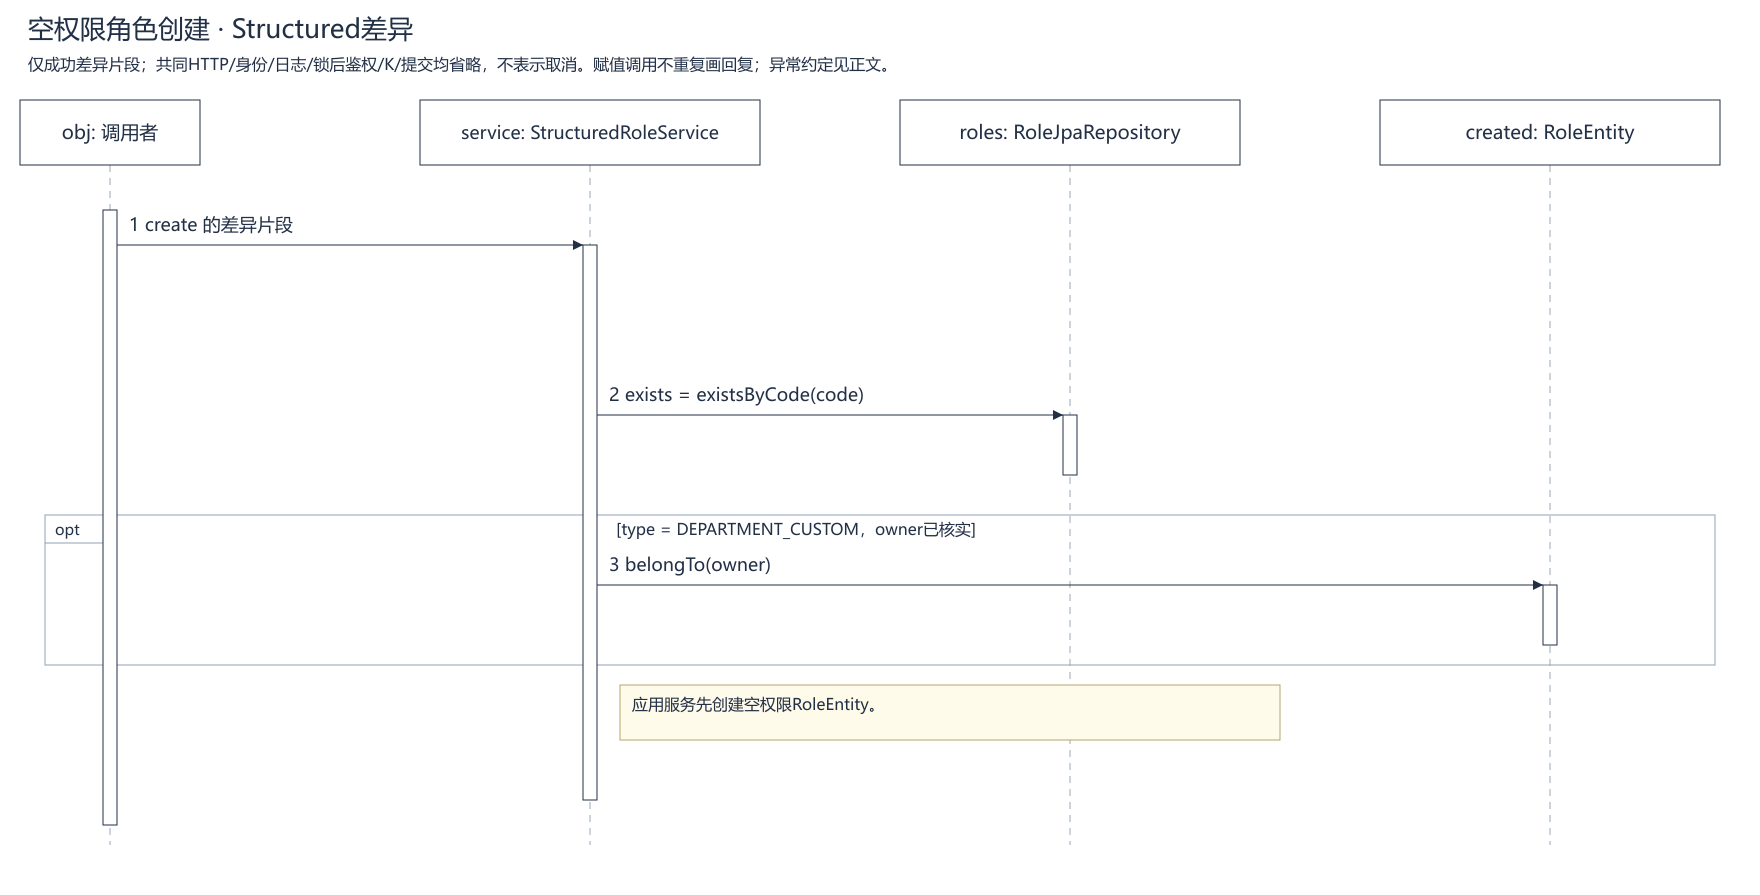
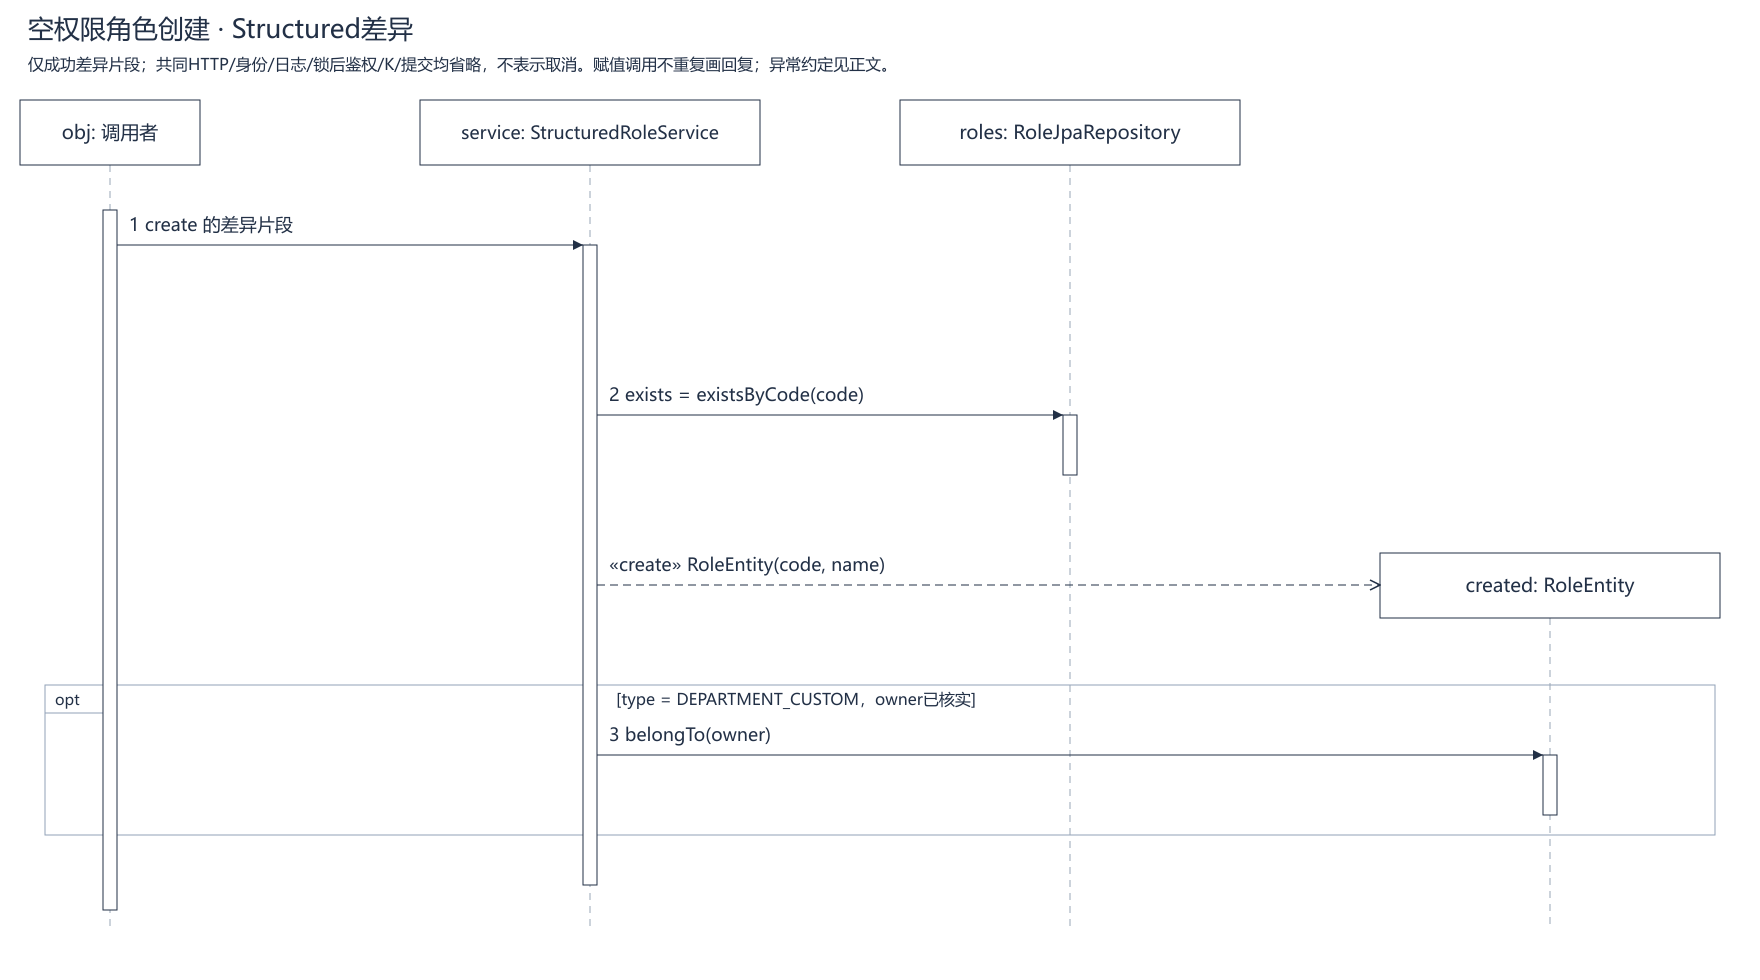
docs: clarify object creation and authorization in UML

diff --git a/docs/design/README.md b/docs/design/README.md
@@ -14,6 +14,6 @@ node scripts/build-ddd-design.mjs
 node scripts/build-structured-design.mjs
 ```
 
-类图按项目指定的`uml-class-sequence-diagrams`绘制，以Service为中心，使用字段名标识关联，区分依赖与接口实现。顺序图校验接收方方法、对象和静态方法生命线、执行条定位及循环边界。包图用UML文件夹符号和依赖箭头，[Chen ER](../database-design.md#1-chen-er概念模型)使用矩形、菱形、椭圆和基数。生成结果见[主清单](ddd-generated-manifest.json)和[structured清单](structured-generated-manifest.json)，生成后打开PNG复核布局。
+类图按项目指定的`uml-class-sequence-diagrams`绘制，以Service为中心，使用字段名标识关联，区分依赖与接口实现，并以下划线标记静态方法。顺序图校验接收方方法、对象和静态方法生命线、执行条定位及循环边界。`«create»`消息从创建者的执行条发出，落在新对象的生命线框。包图用UML文件夹符号和依赖箭头，[Chen ER](../database-design.md#1-chen-er概念模型)使用矩形、菱形、椭圆和基数。生成结果见[主清单](ddd-generated-manifest.json)和[structured清单](structured-generated-manifest.json)，生成后打开PNG复核布局。
 
 共同JWT/HTTP/日志/锁和提交不绘制两份顺序图；相同分页或集合读取模式在覆盖矩阵明确复用。被现行图集替代的旧局部图及重复图已清理，原版本从Git历史恢复；不再维护另一套历史图集或重复设计说明。
